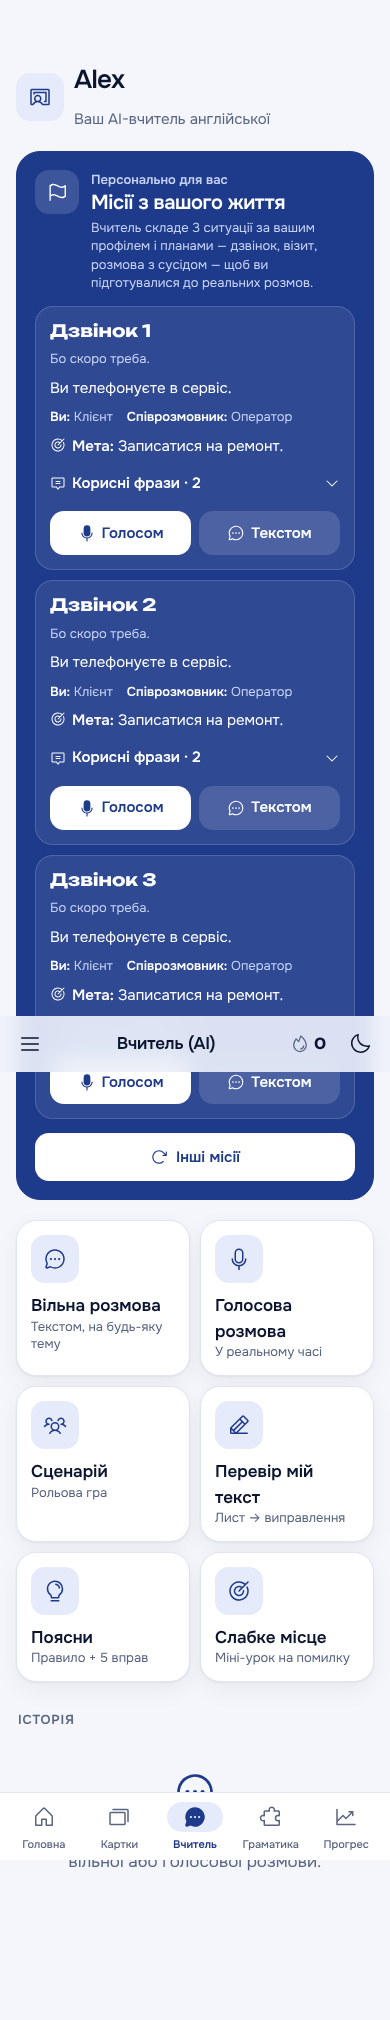
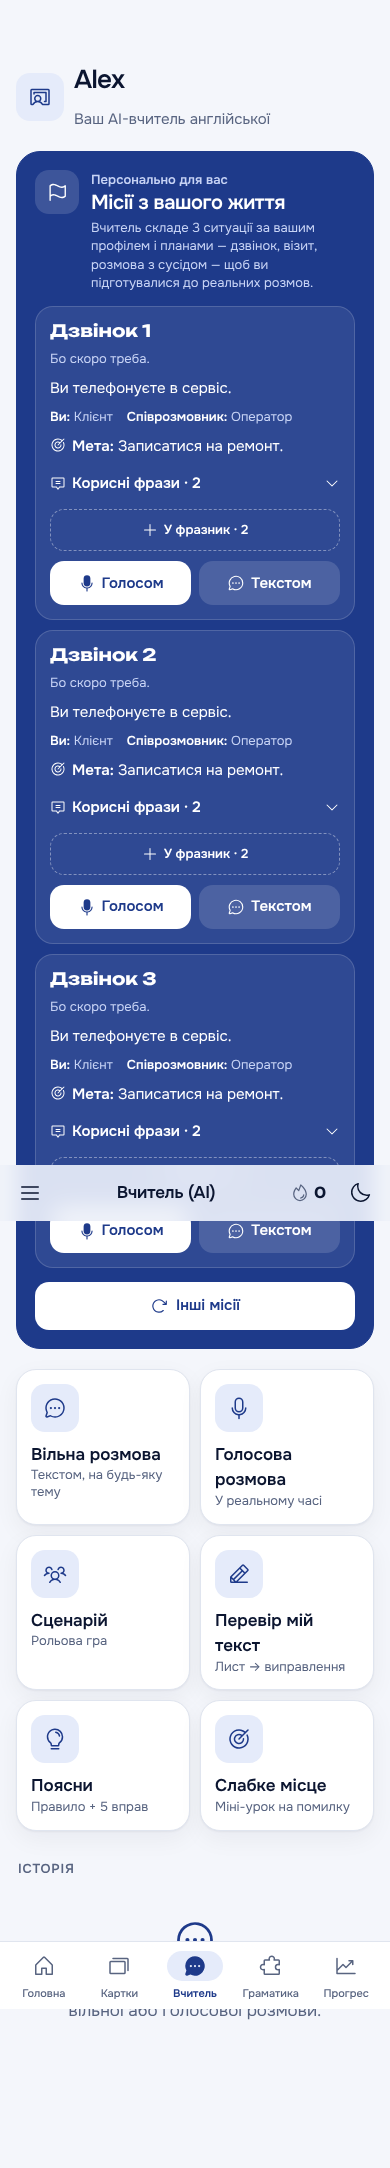
Голос на iPhone: вікно розмови злипалося з шапкою — анімація входу сторінки лишала контейнер базою для position:fixed (WebKit)
- Клас анімації знімається після завершення (backwards замість both)
- Повноекранне вікно голосу монтується в корінь документа й прибирається при виході — не залежить від стилів сторінки

Claude-Session: https://claude.ai/code/session_01JuJQ11vePmyLLwjBKjFfw8

Changed region(s): [[0.0308, 0.0312, 0.9846, 0.9356], [0.4308, 0.8733, 0.8, 0.9356], [0.8308, 0.8733, 0.9231, 0.9356]]

diff --git a/index.html b/index.html
@@ -17,19 +17,19 @@
 <link rel="apple-touch-icon" href="assets/icons/apple-touch-icon.png">
 <link rel="preload" href="fonts/onest-cyrillic-400-normal.woff2" as="font" type="font/woff2" crossorigin>
 <link rel="preload" href="fonts/unbounded-cyrillic-600-normal.woff2" as="font" type="font/woff2" crossorigin>
-<link rel="stylesheet" href="css/tokens.css?v=20261102092846">
-<link rel="stylesheet" href="css/base.css?v=20261102092846">
-<link rel="stylesheet" href="css/components.css?v=20261102092846">
-<link rel="stylesheet" href="css/home.css?v=20261102092846">
-<link rel="stylesheet" href="css/phrases.css?v=20261102092846">
-<link rel="stylesheet" href="css/reading.css?v=20261102092846">
-<link rel="stylesheet" href="css/tutor.css?v=20261102092846">
-<link rel="stylesheet" href="css/tests.css?v=20261102092846">
-<link rel="stylesheet" href="css/analysis.css?v=20261102092846">
-<link rel="stylesheet" href="css/wordtrain.css?v=20261102092846">
-<link rel="stylesheet" href="css/games.css?v=20261102092846">
-<link rel="modulepreload" href="js/app.js?v=20261102092846">
-<script type="module" src="js/app.js?v=20261102092846"></script>
+<link rel="stylesheet" href="css/tokens.css?v=20261102102457">
+<link rel="stylesheet" href="css/base.css?v=20261102102457">
+<link rel="stylesheet" href="css/components.css?v=20261102102457">
+<link rel="stylesheet" href="css/home.css?v=20261102102457">
+<link rel="stylesheet" href="css/phrases.css?v=20261102102457">
+<link rel="stylesheet" href="css/reading.css?v=20261102102457">
+<link rel="stylesheet" href="css/tutor.css?v=20261102102457">
+<link rel="stylesheet" href="css/tests.css?v=20261102102457">
+<link rel="stylesheet" href="css/analysis.css?v=20261102102457">
+<link rel="stylesheet" href="css/wordtrain.css?v=20261102102457">
+<link rel="stylesheet" href="css/games.css?v=20261102102457">
+<link rel="modulepreload" href="js/app.js?v=20261102102457">
+<script type="module" src="js/app.js?v=20261102102457"></script>
 </head>
 <body>
 <a class="sr-only" href="#view">Перейти до змісту</a>

diff --git a/precache-list.js b/precache-list.js
@@ -1,7 +1,7 @@
 // Згенеровано scripts/bump.sh — не редагувати вручну
 // шлях → хеш вмісту (sha256, 12 символів)
 self.PRECACHE = {
-  './': '8a400458e5fd', './index.html': '8a400458e5fd', './manifest.webmanifest': 'a99fcb655734',
+  './': 'a57445eb8100', './index.html': 'a57445eb8100', './manifest.webmanifest': 'a99fcb655734',
   './assets/icons/apple-touch-icon.png': '92b8c14d44a7',
   './assets/icons/icon-192.png': '7002ccee6bcd',
   './assets/icons/icon-512.png': '4cdfc491602e',
@@ -9,7 +9,7 @@ self.PRECACHE = {
   './assets/icons/maskable-512.png': 'fe5068bf7063',
   './assets/icons/maskable.svg': 'ef9b3eb5ba50',
   './css/analysis.css': '954428d4fc6f',
-  './css/base.css': 'ea34dea81f75',
+  './css/base.css': '94478cfde10b',
   './css/components.css': 'b7f4a9f0025c',
   './css/games.css': '85260583e1f0',
   './css/home.css': '4888ccc0adc4',
@@ -180,7 +180,7 @@ self.PRECACHE = {
   './js/ai.js': '7eb8286ecdab',
   './js/analysis.js': '3864cd4aa7c6',
   './js/app.js': '8ca5c69eb40f',
-  './js/config.js': '7c2e2dfe7651',
+  './js/config.js': '84ff29d9a795',
   './js/daily.js': 'bdd66d51019f',
   './js/data.js': 'b13181517b77',
   './js/errlog.js': 'b1996f6e588a',
@@ -193,7 +193,7 @@ self.PRECACHE = {
   './js/live/capture-worklet.js': '76d26fd26a5e',
   './js/live/client.js': '93cba61f376c',
   './js/live/player-worklet.js': 'c6738b2199ce',
-  './js/live/voice.js': '8bd491b8f66d',
+  './js/live/voice.js': '2e7bd65d1edf',
   './js/nav.js': 'b3625ccec516',
   './js/pages/admin.js': '9629f4d08974',
   './js/pages/analysis.js': 'f3fd5f584026',
@@ -226,7 +226,7 @@ self.PRECACHE = {
   './js/phrases.js': '4350ec633fed',
   './js/placement.js': '877fbc790dde',
   './js/push.js': '54dbaa4d4af8',
-  './js/router.js': 'b9cc2a475300',
+  './js/router.js': '481295242c79',
   './js/rules.js': '5e5b6b4aa3c3',
   './js/speech.js': '51f620bbc5cc',
   './js/srs.js': '9e29dc109db9',

diff --git a/js/live/voice.js b/js/live/voice.js
@@ -73,7 +73,10 @@ export async function voiceSession(view, opts = {}) {
     h('div.top', h('button.icon-btn', { type: 'button', 'aria-label': 'Завершити', onclick: () => finish() }, ic('x')), timerEl, subsBtn),
     h('div.stage', aura, stateEl, fixBadge, notice, scenario ? h('div.xs.dim.center', `${scenario.title} · ваша роль: ${scenario.myRole}`) : null, subs, logBox),
     pttBtn, controls);
-  view.replaceChildren(ui);
+  // вікно — у корені документа, а не в контейнері сторінки: стилі й анімації сторінки (transform, opacity) на iOS
+  // роблять контейнер «базою» для position:fixed, і повноекранне вікно опинялося під шапкою, стиснуте
+  document.body.append(ui);
+  view.replaceChildren(h('div', { 'aria-hidden': 'true', style: { minHeight: '60dvh' } }));
   // прибирання реєструється одразу: сесія ще чекає тапу «Почати розмову», а користувач може піти
   onLeave(view, cleanup);
 
@@ -561,6 +564,7 @@ export async function voiceSession(view, opts = {}) {
     try { audio?.stop(); } catch { /* */ }
     stopSpeech();
     setFocus(false);
+    ui.remove();
     // пішли зі сторінки без «Завершити» — все одно зберігаємо
     if (!ended) { ended = true; save(); }
   }

diff --git a/js/router.js b/js/router.js
@@ -82,7 +82,13 @@ export async function render() {
     current = { name: r.name, cleanup: null, host };
     view.className = '';
     // анімація входу — на новому контейнері сторінки: вона стартує сама, без примусового перерахунку розмітки
+    // клас знімається після анімації: інакше (iOS Safari) контейнер лишається стековим контекстом і «базою» для position:fixed —
+    // повноекранні вікна (голос, тест) опиняються під шапкою й стискаються
     host.className = 'page-enter';
+    const done = () => host.classList.remove('page-enter');
+    host.addEventListener('animationend', done, { once: true });
+    host.addEventListener('animationcancel', done, { once: true });
+    setTimeout(done, 400);
     window.scrollTo(0, 0);
     listeners.forEach(fn => fn(r));
     const cleanup = await mod.default(host, r);

diff --git a/css/base.css b/css/base.css
@@ -78,6 +78,6 @@ body.focus-mode .quickbar{transform:translateY(120%);visibility:hidden;transitio
 .section-title{font-family:var(--font-body);font-size:var(--fs-xs);font-weight:600;color:var(--ink-dim);margin:8px 2px 0;text-transform:uppercase;letter-spacing:.06em}
 .eyebrow{font-size:12px;font-weight:600;text-transform:uppercase;letter-spacing:.06em;color:var(--accent-ink)}
 /* перехід між сторінками: короткий (160 мс) і лише візуальний — нова сторінка реагує на дотик одразу */
-.page-enter{animation:pageIn 160ms var(--ease) both}
+.page-enter{animation:pageIn 160ms var(--ease) backwards}
 @keyframes pageIn{from{opacity:0;transform:translateY(4px)}to{opacity:1;transform:none}}
 @media (prefers-reduced-motion:reduce){.page-enter{animation:none}}

diff --git a/js/config.js b/js/config.js
@@ -1,6 +1,6 @@
 // Версія збірки: той самий рядок у sw.js (назва кешу) і в ?v= у index.html.
 // Піднімати скриптом scripts/bump.sh після будь-якої зміни фронтенду.
-export const BUILD = '20261102092846';
+export const BUILD = '20261102102457';
 
 // Supabase (окремий проєкт myEnglish). Publishable-ключ публічний за задумом:
 // доступ до даних обмежує RLS (кожен бачить лише свої рядки); AI — будь-якому користувачу, що увійшов, з денними лімітами на кожного.

diff --git a/sw.js b/sw.js
@@ -1,5 +1,5 @@
 // Service worker: офлайн-кеш оболонки й контенту. AI і Supabase — завжди мережа.
-const BUILD = '20261102092846';
+const BUILD = '20261102102457';
 const CACHE = `myenglish-${BUILD}`;
 importScripts(`precache-list.js?v=${BUILD}`);
 
